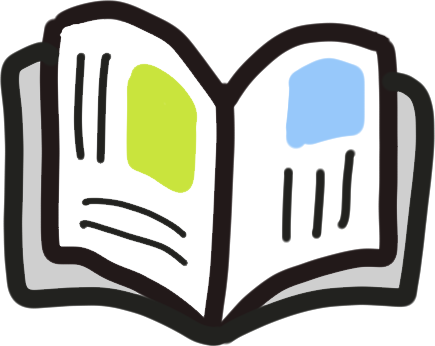
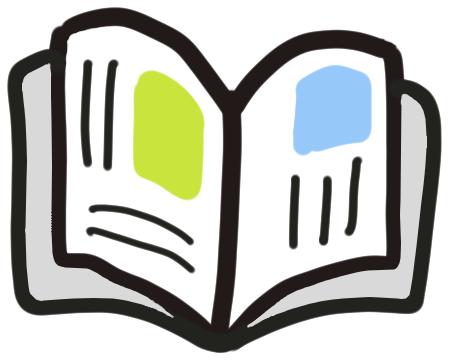
ロゴを修正。ベータはずす。

diff --git a/view/navbar.html b/view/navbar.html
@@ -2,7 +2,7 @@
 
     <a class="navbar-brand" href="/">
         <img src="/img/magazine-checker.png" width="35px" height="30px" class="d-inline-block align-top" alt="">
-        Magazine Checker β
+        Magazine Checker
     </a>
     <button class="navbar-toggler" type="button" data-toggle="collapse" data-target="#navbarNav" aria-controls="navbarNav" aria-expanded="false" aria-label="Toggle navigation">
         <span class="navbar-toggler-icon"></span>

diff --git a/deploy.php b/deploy.php
@@ -42,6 +42,8 @@ task('chown_folder', function () {
     $chown = 'chown -R nginx:nginx twig_cache';
     run('cd ' . get('release_path') . '/htdocs/'. ' && '. $chown);
     writeln("変更完了");
+    writeln("<comment>php-fpmを再起動</comment>");
+    run('systemctl restart php72-php-fpm.service');
 });
 
 desc('Deploy your project');
